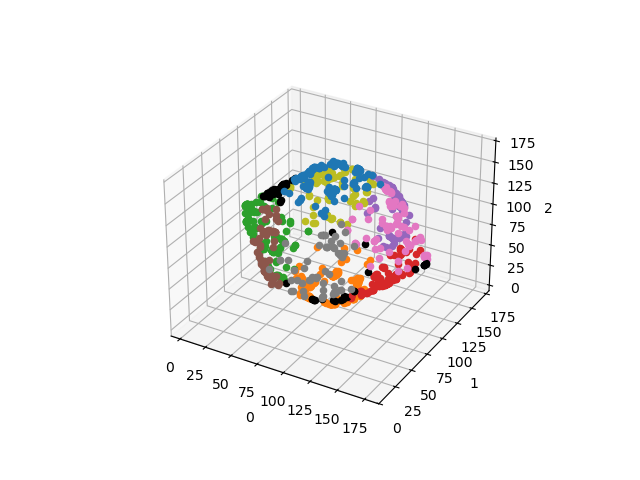
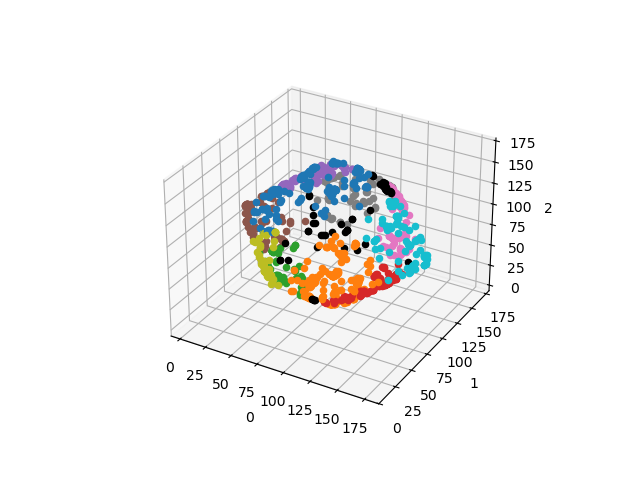
misc

Changed region(s): [[0.375, 0.3438, 0.6875, 0.6562]]

diff --git a/scripts/main.py b/scripts/main.py
@@ -181,11 +181,11 @@ def main(PROCESS_ALL = False,
     if not SKIP_CLUSTERING or PROCESS_ALL and False:
 
         from clustering import generate_dihedrals_df, plot_dihedrals, cluster_dihedrals
-        generate_dihedrals_df(force = True)
+        generate_dihedrals_df(force = False)
 
         for file in os.listdir(root.dihedrals):
             dihedrals_path = os.path.join(root.dihedrals, file)
-            clustered_dihedrals_path = cluster_dihedrals(dihedrals_path, bandwidth=45)
+            clustered_dihedrals_path = cluster_dihedrals(dihedrals_path, bandwidth=40)
 
         for file in os.listdir(root.dihedral_clusters):
             dihedrals_path = os.path.join(root.dihedral_clusters, file)
